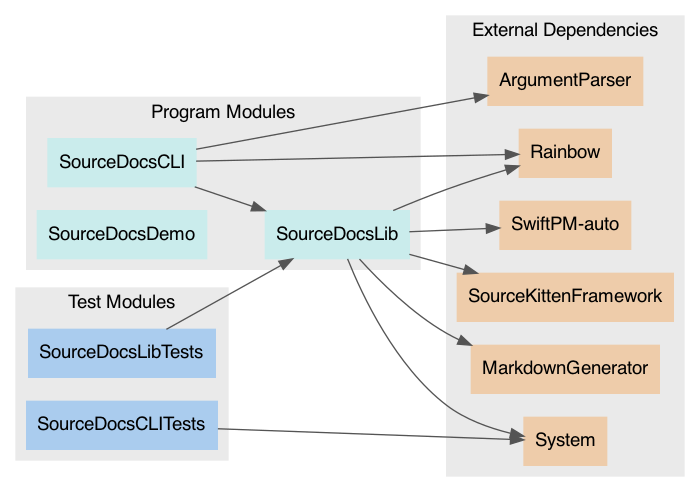
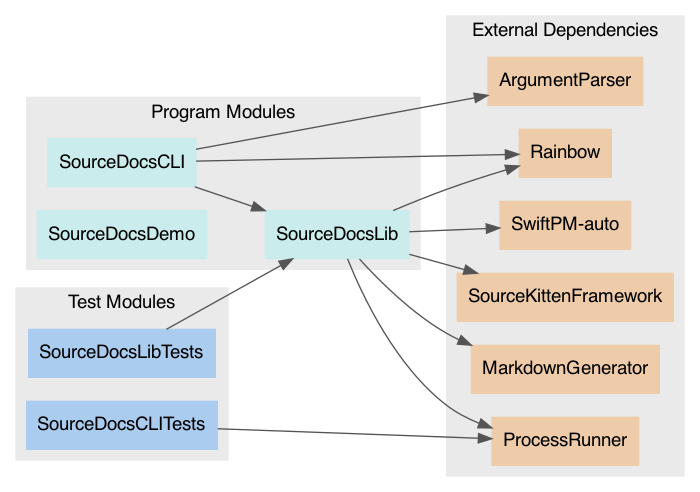
Dependency graph images

Changed region(s): [[0.66, 0.8232, 0.93, 0.9451]]

diff --git a/docs/Package.md b/docs/Package.md
@@ -66,6 +66,10 @@ _Libraries denoted 'automatic' can be both static or dynamic._
     -   [Rainbow (3.1.5)](https://github.com/onevcat/Rainbow)
     -   [ProcessRunner (1.1.0)](https://github.com/eneko/ProcessRunner.git)
 
+### Package Dependency Graph
+
+[![Package Dependency Graph](PackageDependencies.png)](PackageDependencies.png)
+
 ## Requirements
 
 ### Minimum Required Versions
